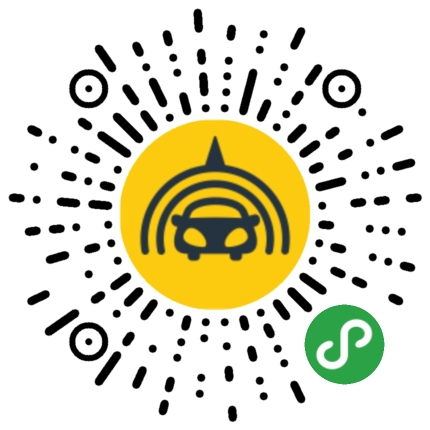
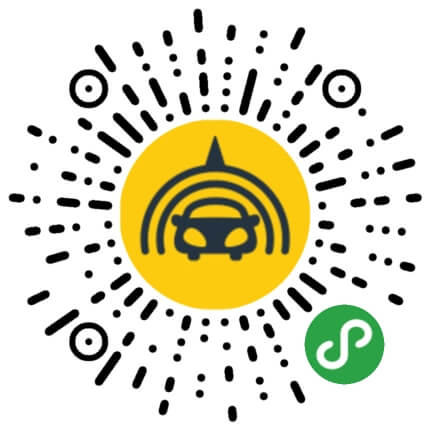
compress pics

diff --git a/src/index.html b/src/index.html
@@ -78,7 +78,7 @@
             </span>
           </a>
         </li> -->
-        
+
       </ul>
     </section>
   </header>
@@ -145,9 +145,11 @@
                   <img class="resume-mpqr" src="qrcode_fengbao_c.jpg"/>
                   <img class="resume-mpqr" src="qrcode_fengbao_b.jpg"/>
                   <img class="resume-mpqr" src="qrcode_yxs.jpg"/>
+                  <img class="resume-mpqr" src="qrcode_yxs_r.jpg"/>
+                  <img class="resume-mpqr" src="qrcode_gymall.jpg"/>
                   <br/>
-                  以上小程序依次为：蜂暴车保(用户端)、蜂暴车行(蜂暴车险合约商户端)、研修生手机维修、硅云商超(公司自研电商平台小程序)。<br/>
-                  另有正在开发的网师猿写字课小程序（仿河小象写字课小程序）正在开发。
+                  以上小程序依次为：蜂暴车保(用户端)、蜂暴车行(蜂暴车险合约商户端)、研修生手机维修、骑士上门(严修生维修员端)、硅云商超(公司自研电商平台小程序)。<br/>
+                  另有网师猿写字课小程序（仿河小象写字课小程序）正在开发。
                 </li>
                 <li><a href="http://www.fanylink.com">Fanylink</a>翻译客-翻译员平台<br/>
                   包括<a href="http://www.fanylink.com">Fanylink</a>平台的spa网站开发(Angular5)、使用ionic框架开发的安卓与iOS端APP。
